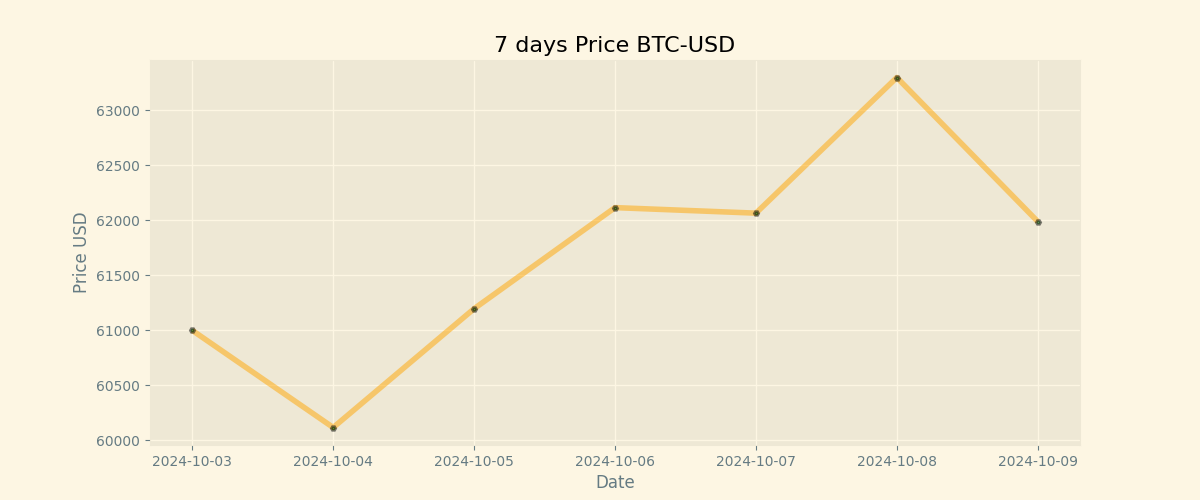
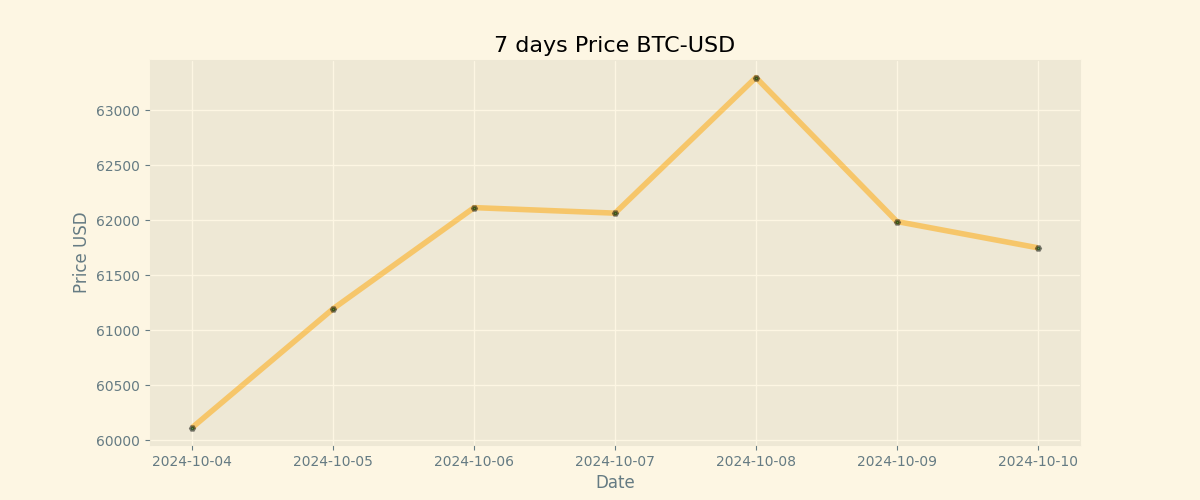
Duty Updates 2024-10-10

diff --git a/README.md b/README.md
@@ -9,8 +9,8 @@
 
 | Currency | Price           |
 | -------- | --------------- |
-| **BTC**  | **$ 61989.9** |
-| **ETH**  | **$ 2425.53** |
+| **BTC**  | **$ 61751.0** |
+| **ETH**  | **$ 2437.46** |
 
 ## BTC chart
 
